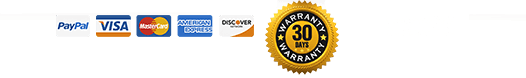
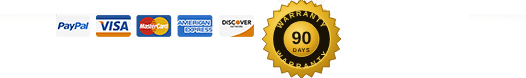
site.prometheus home: replace "30 Days Warranty" seal with a 90-day seal
The payment-badge strip (index_files/12.png) showed a "30 Days Warranty" seal
directly beside the "90 Days Money Back Guarantee" text — contradictory
guarantee terms. Redrew the seal as a matching gold "WARRANTY · 90 DAYS"
seal (transparent PNG, same 526x78 size and position) and cache-busted the
image URL (?v=2).

Claude-Session: https://claude.ai/code/session_01XaadYakPkjn2QpmvrMsW53

Changed region(s): [[0.4867, 0.0, 0.6692, 1.0]]

diff --git a/site.prometheus/index.html b/site.prometheus/index.html
@@ -958,7 +958,7 @@ img,iframe,video{max-width:100%}
 </a>
 </div>
 <div class="de elImageWrapper de-image-block elAlign_center elMargin0 ui-droppable de-editable" id="tmp_image-53308" data-de-type="img" data-de-editing="false" data-title="image" data-ce="false" data-trigger="none" data-animate="fade" data-delay="500" style="margin-top: 30px; outline: none; cursor: pointer;" aria-disabled="false">
-<img loading="lazy" decoding="async" src="./index_files/12.png" class="elIMG ximg" alt="Prometheus AI feature highlight" tabindex="0">
+<img loading="lazy" decoding="async" src="./index_files/12.png?v=2" class="elIMG ximg" alt="Prometheus AI feature highlight" tabindex="0">
 </div>
 </div>
 </div>
@@ -1384,7 +1384,7 @@ img,iframe,video{max-width:100%}
 </a>
 </div>
 <div class="de elImageWrapper de-image-block elAlign_center elMargin0 ui-droppable hiddenElementTools de-editable" id="tmp_image-53308-156" data-de-type="img" data-de-editing="false" data-title="image" data-ce="false" data-trigger="none" data-animate="fade" data-delay="500" style="margin-top: 30px; outline: none; cursor: pointer;" aria-disabled="false">
-<img loading="lazy" decoding="async" src="./index_files/12.png" class="elIMG ximg" alt="Prometheus AI feature highlight" tabindex="0">
+<img loading="lazy" decoding="async" src="./index_files/12.png?v=2" class="elIMG ximg" alt="Prometheus AI feature highlight" tabindex="0">
 </div>
 </div>
 </div>
@@ -1741,7 +1741,7 @@ img,iframe,video{max-width:100%}
 </a>
 </div>
 <div class="de elImageWrapper de-image-block elAlign_center elMargin0 ui-droppable de-editable" id="tmp_image-53308-156-180" data-de-type="img" data-de-editing="false" data-title="image" data-ce="false" data-trigger="none" data-animate="fade" data-delay="500" style="margin-top: 30px; outline: none; cursor: pointer;" aria-disabled="false">
-<img loading="lazy" decoding="async" src="./index_files/12.png" class="elIMG ximg" alt="Prometheus AI feature highlight" tabindex="0">
+<img loading="lazy" decoding="async" src="./index_files/12.png?v=2" class="elIMG ximg" alt="Prometheus AI feature highlight" tabindex="0">
 </div>
 </div>
 </div>
@@ -2083,7 +2083,7 @@ What Prometheus is built to do is manage that risk for you — fixed position si
 </a>
 </div>
 <div class="de elImageWrapper de-image-block elAlign_center elMargin0 ui-droppable de-editable" id="img-32749" data-de-type="img" data-de-editing="false" data-title="image" data-ce="false" data-trigger="none" data-animate="fade" data-delay="500" style="margin-top: 30px; outline: none; cursor: pointer;" aria-disabled="false">
-<img loading="lazy" decoding="async" src="./index_files/12.png" class="elIMG ximg" alt="Prometheus AI feature highlight" tabindex="0">
+<img loading="lazy" decoding="async" src="./index_files/12.png?v=2" class="elIMG ximg" alt="Prometheus AI feature highlight" tabindex="0">
 </div>
 </div>
 </div>
